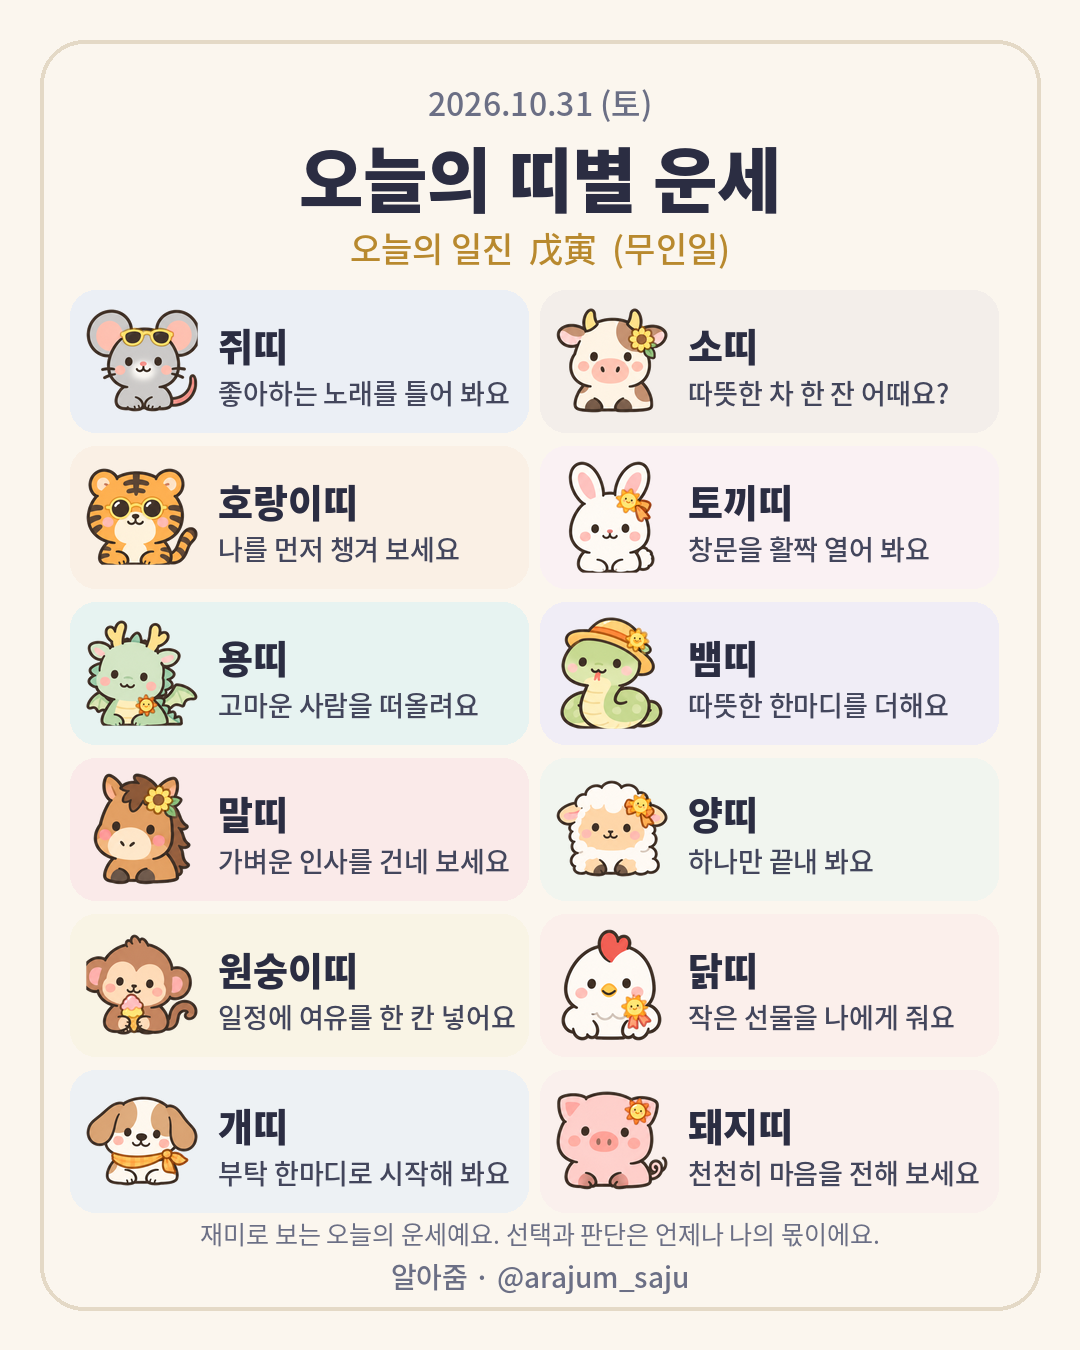
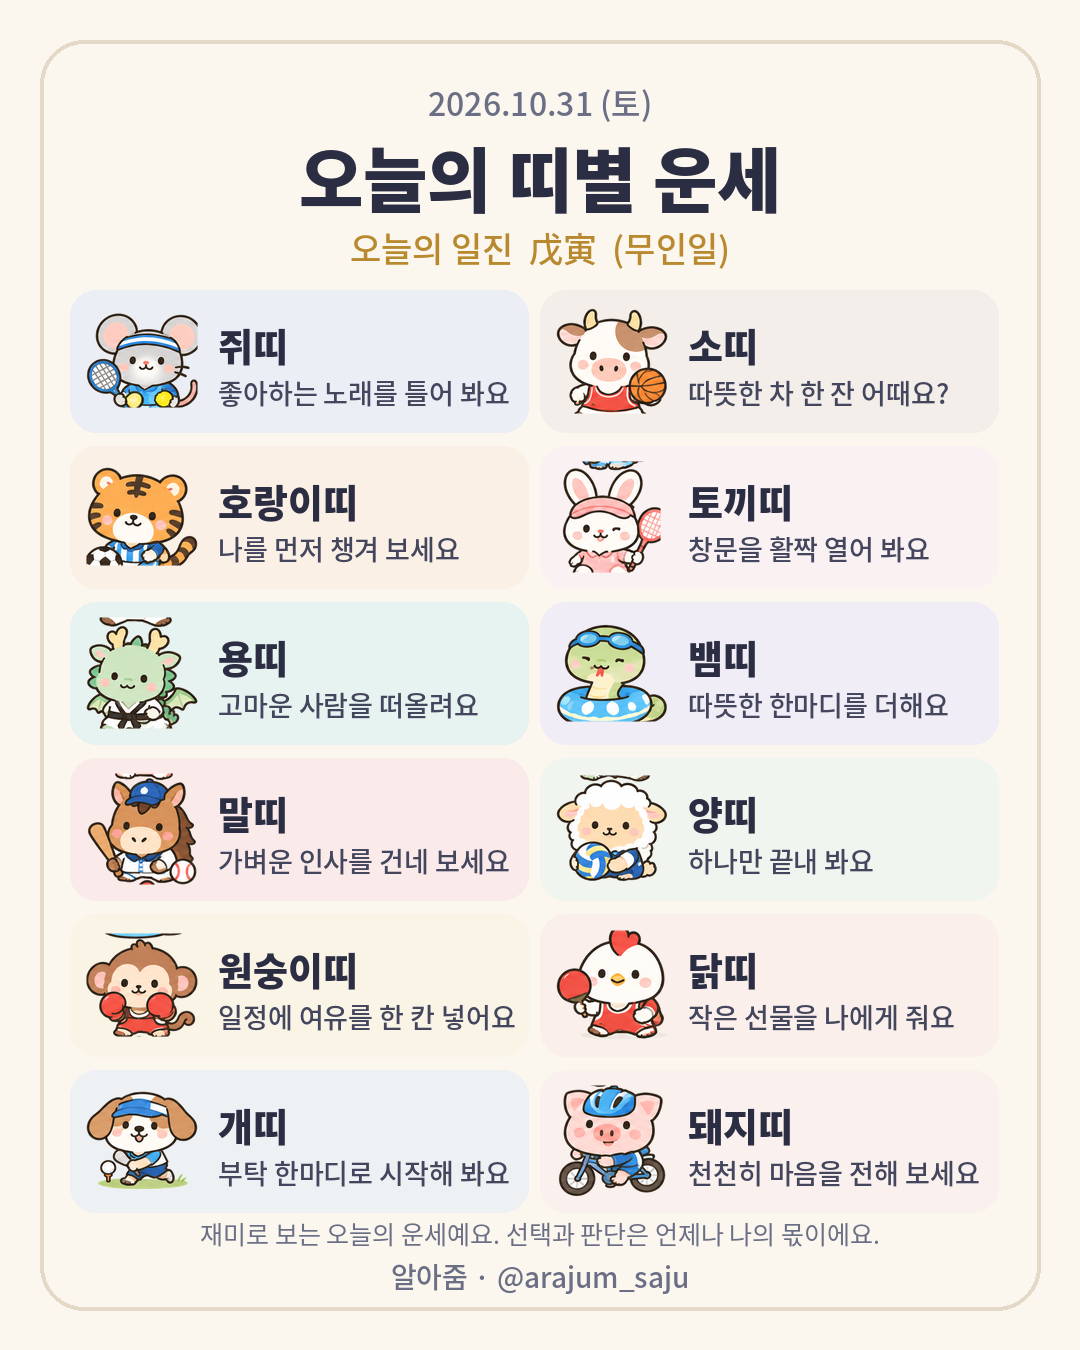
Ten themed animal sets rotating every 3 days by day-stem
Claude-Session: https://claude.ai/code/session_01HgqiQRyhkZdeEVfzwScwuQ

diff --git a/tools/gen_content.py b/tools/gen_content.py
@@ -183,7 +183,9 @@ def build12(dt):
                "🤍 팔로우하면 매일 아침 따뜻한 한마디를 받아볼 수 있어요.\n\n" + tags)
     st = date(2026, 10, 21) + __import__("datetime").timedelta(days=3 * ((dt - date(2026, 10, 21)).days // 3))
     sn = (54 + (st - date(2000, 1, 1)).days) % 60
-    animal_set = {"木": "wood", "火": "fire", "土": "earth", "金": "metal", "水": "water"}[S_EL[sn % 10]]
+    # 3일 단위 테마 세트: 구간 첫날 일진의 천간(갑~계)에 하나씩 대응(10일 순환=30일 주기)
+    SETS = ["explorer", "garden", "fire", "sports_a", "earth", "wood", "sports_b", "metal", "water", "school"]
+    animal_set = SETS[sn % 10]
     return dict(date=dt.isoformat(), date_label=f"{dt.year}.{dt.month:02d}.{dt.day:02d} ({wd})",
                 ilgin=ilgin, ilgin_ko=ilgin_ko, animal_set=animal_set, items=items, brand="알아줌", caption=caption)
 

diff --git a/RUNBOOK.md b/RUNBOOK.md
@@ -15,7 +15,7 @@
 1. Buffer `list_posts`(status=scheduled)로 마지막 예약일 확인(아침/저녁 각각). 예약 총합 10건 이하로, 부족한 날부터 채운다.
 2. `git pull` 후 필요한 날짜의 `comfort/DATE/meta.json` 확인. 없으면 `gh api -X POST repos/kcabiz-cell/aljum-cards/actions/workflows/comfort-assets.yml/dispatches -f ref=main -f 'inputs[start]=YYYY-MM-DD' -f 'inputs[days]=7'` 실행, `gh api repos/kcabiz-cell/aljum-cards/actions/runs?per_page=1`로 success까지 대기 후 pull.
 3. 아침 12띠 카드: `python3 -I tools/gen_content.py DATE`(content12_DATE.json 생성) → `python3 -I tools/make_card12.py tools/content12_DATE.json cards/DATE/all12.png` → 커밋·푸시 → raw URL 200 확인 → `create_post`(text=content12_DATE.json의 caption, assets=[{image:{url:raw .../cards/DATE/all12.png}}], instagram {type:"post", shouldShareToFeed:true}, dueAt DATE 07:30+09:00).
-   (동물 그림은 오행별 5벌 tools/animals/{wood,fire,earth,metal,water}/*.png(투명 배경)이고 기본 그림은 tools/animals/*.png. 3일 단위로 그 구간 첫날 일진 천간의 오행 세트를 쓴다(gen_content.py가 content12의 animal_set에 기록, 기준일 2026-10-21). earth·metal·water는 해상도가 낮은 임시본이라 원본이 오면 교체. 칸 문구는 gen_content.py의 SHORT 풀에서 일진과 띠 관계로 고른다. 문구는 모두 해요체 행동 제안.)
+   (동물 그림은 테마 10세트 tools/animals/{explorer,garden,fire,sports_a,earth,wood,sports_b,metal,water,school}/*.png(투명 배경), 기본 그림은 tools/animals/*.png. 3일 단위로 그 구간 첫날 일진 천간 순서(갑 explorer·을 garden·병 fire·정 sports_a·무 earth·기 wood·경 sports_b·신 metal·임 water·계 school)로 세트를 쓰고 gen_content.py가 content12의 animal_set에 기록한다(기준일 2026-10-21, 30일 주기). earth·metal·water는 해상도가 낮은 임시본이라 고화질 원본이 오면 교체. 새 테마 추가는 사용자가 ChatGPT로 그린 12마리 시트를 받아 extract로 잘라 넣는다.) 칸 문구는 gen_content.py의 SHORT 풀에서 일진과 띠 관계로 고른다. 문구는 모두 해요체 행동 제안.)
 4. 저녁 일요일 이미지: `create_post` text=caption.txt, assets=[{image:{url:raw .../comfort/DATE/01.jpg}}], instagram {type:"post", shouldShareToFeed:true}, dueAt DATE 21:30+09:00.
 5. 저녁 월·수·금·토 릴스: text=caption.txt, assets=[{video:{url:raw .../comfort/DATE/reel.mp4}}], instagram {type:"reel", shouldShareToFeed:true}, dueAt DATE 21:30+09:00.
 6. 업로드 전에 사진 한두 장 확인(사람 얼굴·로고·어두움이면 해당 폴더 삭제 후 재생성).
